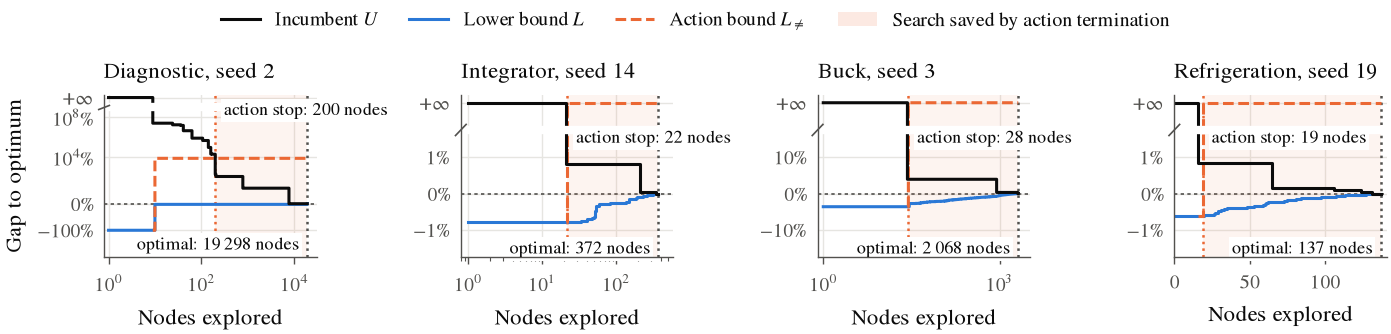
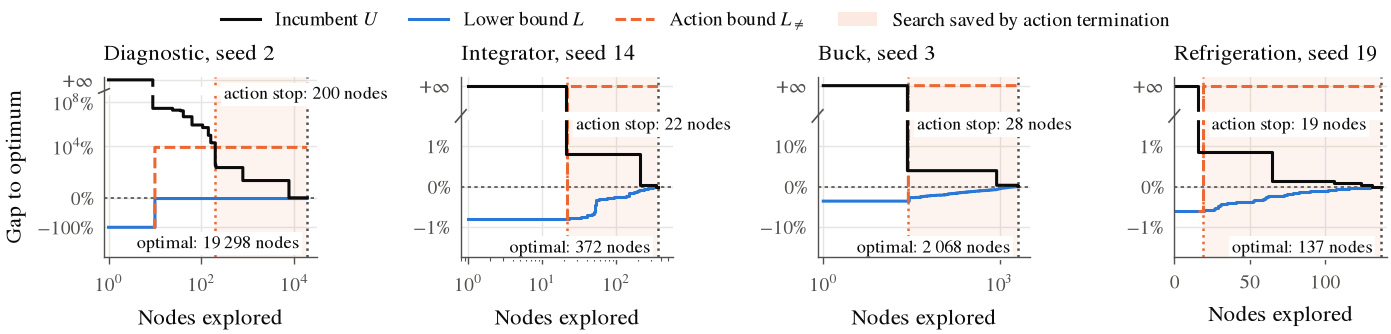
Ready for submission

diff --git a/experiments/action_study.py b/experiments/action_study.py
@@ -118,7 +118,7 @@ def markdown_table(rows: list[tuple], instances: int) -> str:
     """Table I for viewing on GitHub, with the paper's caption."""
     lines = [
         f"SGM runtime [ms] over {instances} instances using DPLG-N. Bold: fastest variant. "
-        "Speedup: B&B over AF+AT. Cert.: AF+AT nodes as a percentage of AF nodes.",
+        "Speedup: B&B over AF+AT. Cert.: SGM nodes of AF+AT as a percentage of AF.",
         "",
         "| Problem | Rule | B&B | AT | AF | AF+AT | Gurobi | Speedup | Cert. [%] |",
         "| --- | --- | ---: | ---: | ---: | ---: | ---: | ---: | ---: |",

diff --git a/experiments/action_traces.py b/experiments/action_traces.py
@@ -144,7 +144,7 @@ def trace_figure(records: list[dict], path: Path) -> None:
     ]
     fig.legend(handles=handles, loc="upper center", ncol=4, bbox_to_anchor=(0.5, 1.0), handlelength=2.0,
                columnspacing=1.6)
-    fig.tight_layout(w_pad=1.5, rect=(0, 0, 1, 0.88))
+    fig.tight_layout(w_pad=1.5, rect=(0, 0, 1, 0.93))
 
     save_figure(fig, path)
 

diff --git a/reproduce/results/table1_ablation.md b/reproduce/results/table1_ablation.md
@@ -1,4 +1,4 @@
-SGM runtime [ms] over 20 instances using DPLG-N. Bold: fastest variant. Speedup: B&B over AF+AT. Cert.: AF+AT nodes as a percentage of AF nodes.
+SGM runtime [ms] over 20 instances using DPLG-N. Bold: fastest variant. Speedup: B&B over AF+AT. Cert.: SGM nodes of AF+AT as a percentage of AF.
 
 | Problem | Rule | B&B | AT | AF | AF+AT | Gurobi | Speedup | Cert. [%] |
 | --- | --- | ---: | ---: | ---: | ---: | ---: | ---: | ---: |

diff --git a/results/action_study/action_study_table.md b/results/action_study/action_study_table.md
@@ -1,4 +1,4 @@
-SGM runtime [ms] over 20 instances using DPLG-N. Bold: fastest variant. Speedup: B&B over AF+AT. Cert.: AF+AT nodes as a percentage of AF nodes.
+SGM runtime [ms] over 20 instances using DPLG-N. Bold: fastest variant. Speedup: B&B over AF+AT. Cert.: SGM nodes of AF+AT as a percentage of AF.
 
 | Problem | Rule | B&B | AT | AF | AF+AT | Gurobi | Speedup | Cert. [%] |
 | --- | --- | ---: | ---: | ---: | ---: | ---: | ---: | ---: |
